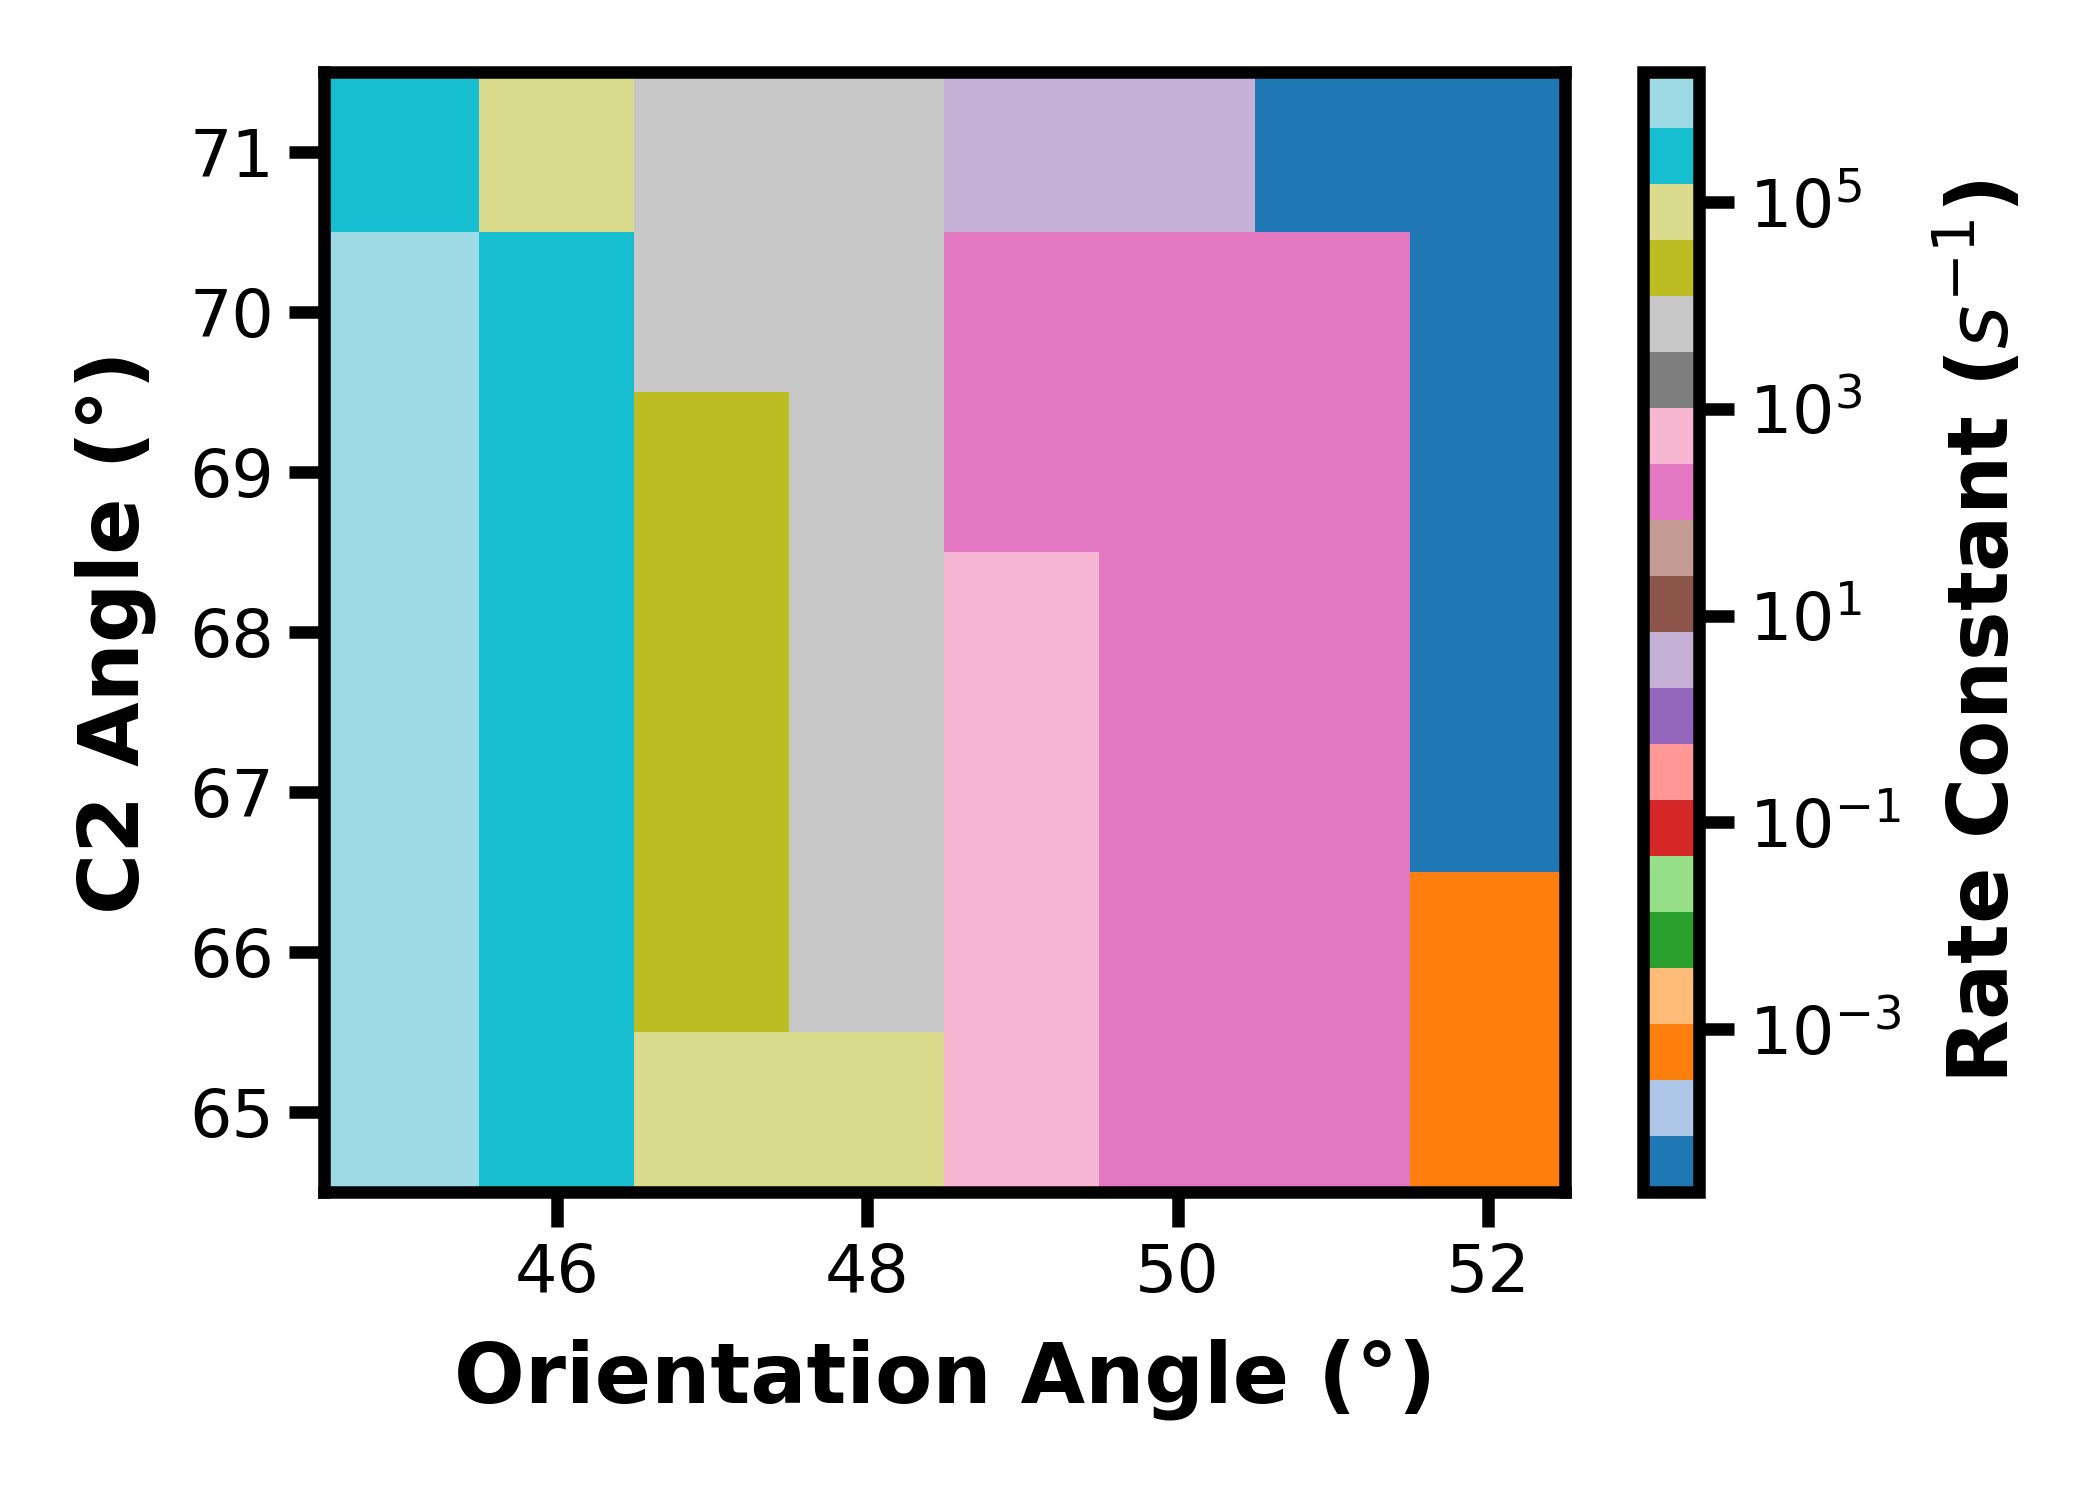
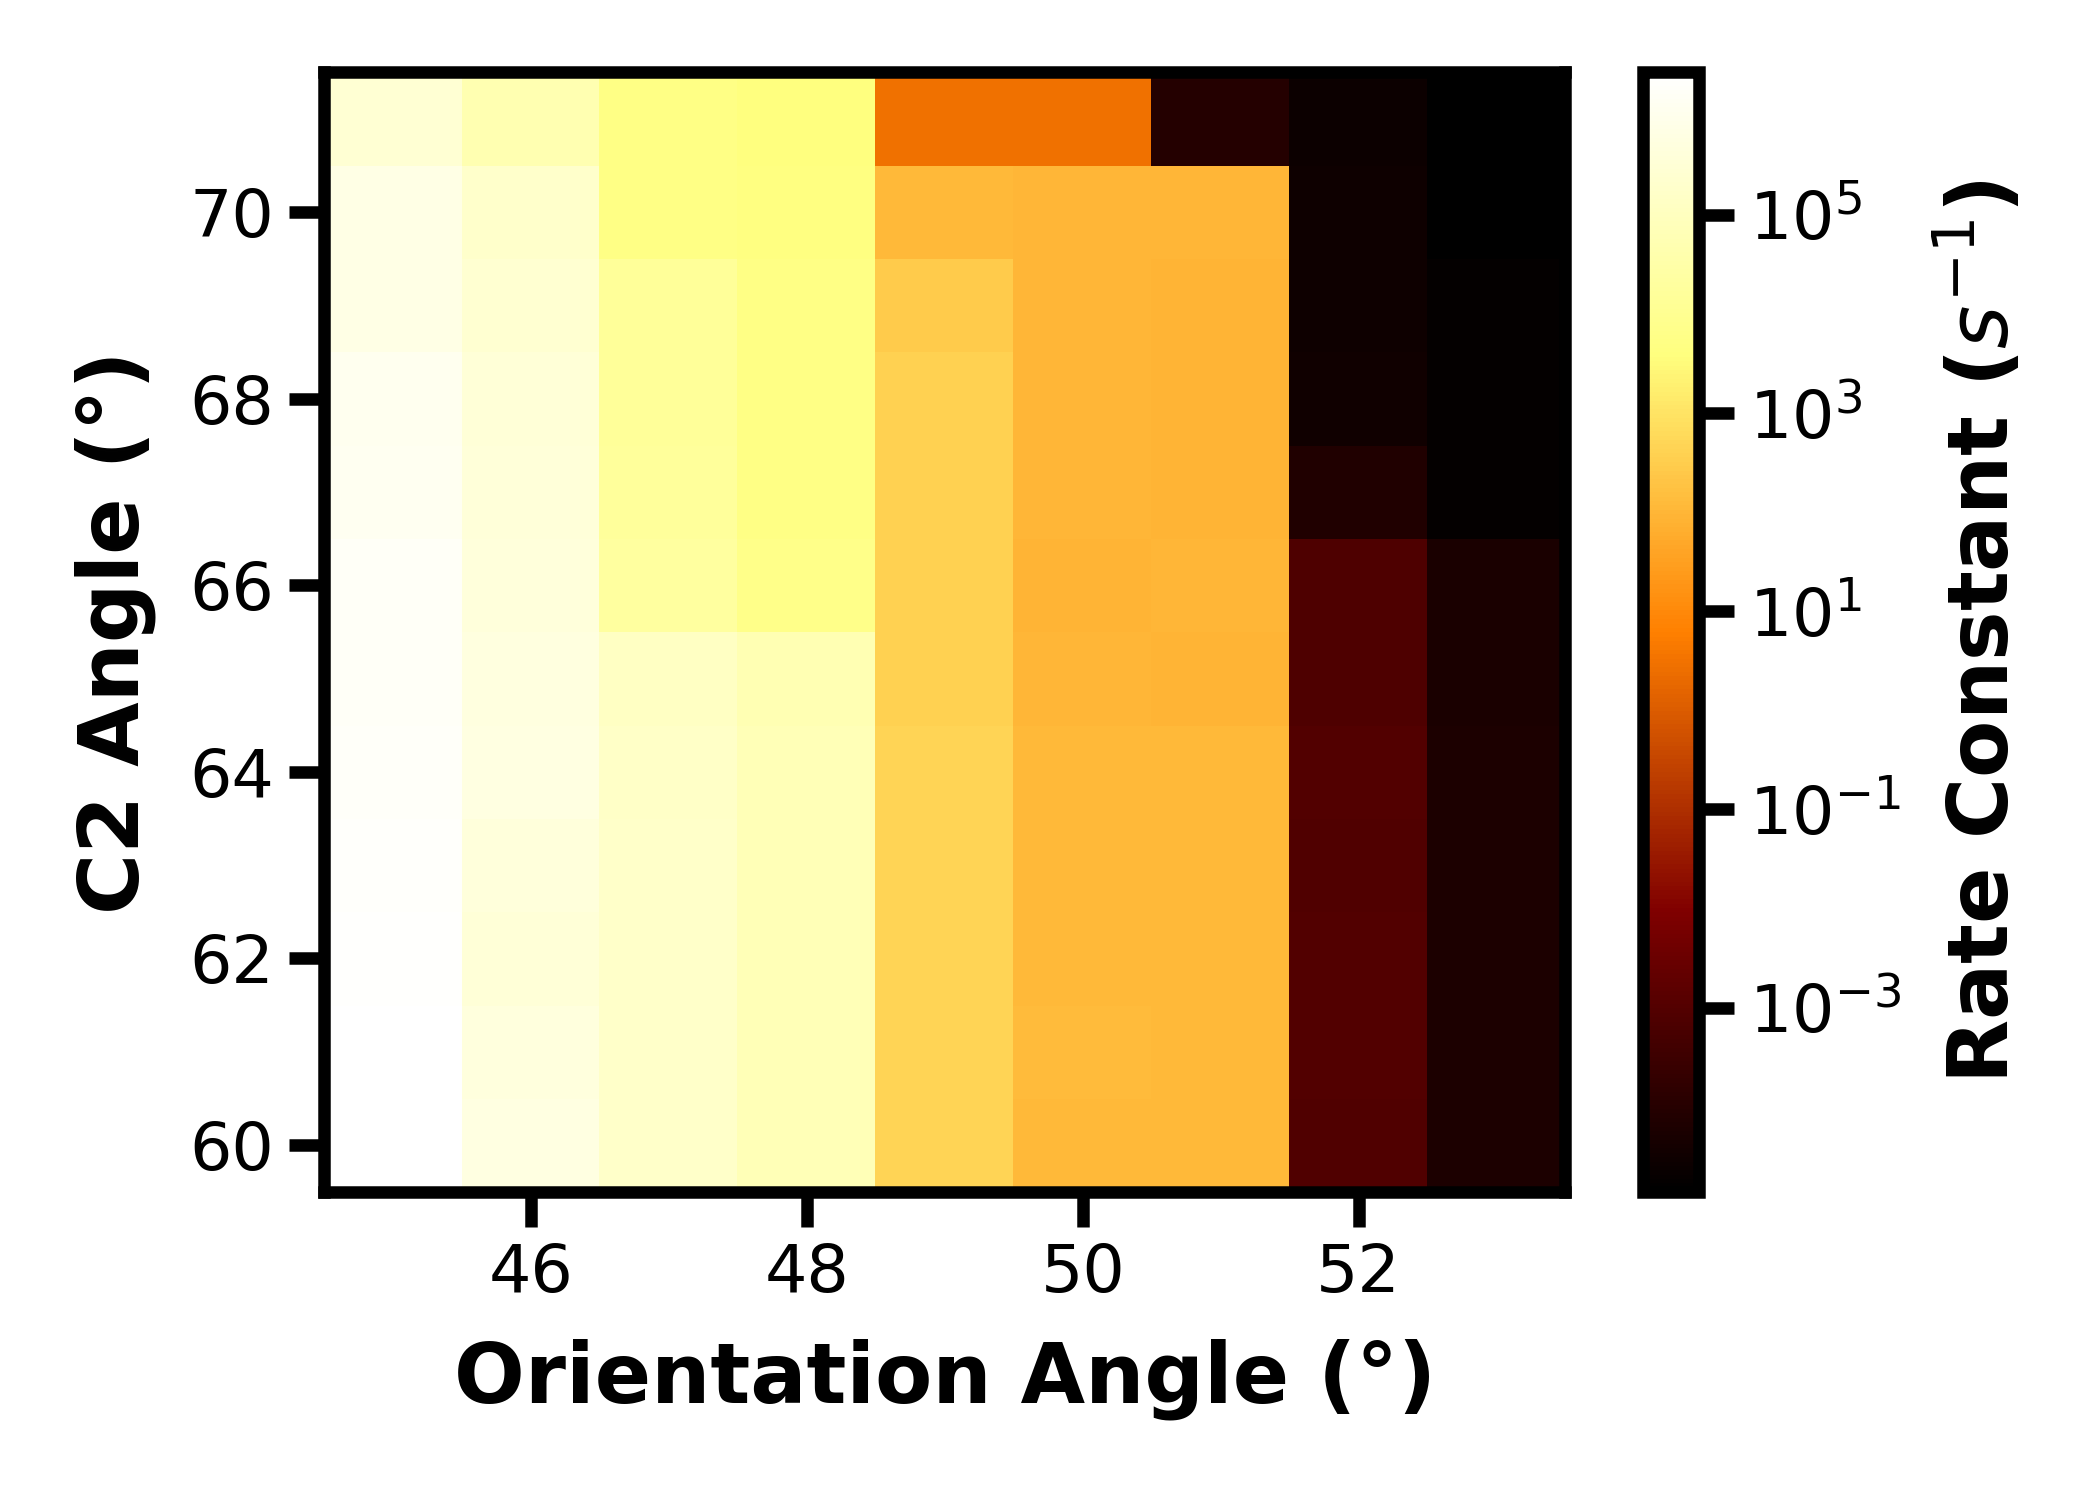
added some plots from the 2d oapdt and c2 grid

diff --git a/plot_direct_h5.py b/plot_direct_h5.py
@@ -36,7 +36,6 @@ The structure of these datasets is as follows:
     of tau.
 """
 
-from turtle import colormode
 import numpy as np
 import matplotlib.pyplot as plt
 import h5py
@@ -99,6 +98,7 @@ class Kinetics:
         """
         Get the raw rate array from one direct.h5 file.
         """
+        print(self.scheme)
         # read in direct.h5 file
         h5 = h5py.File(f"{self.scheme}/direct.h5", "r")
 
@@ -160,7 +160,7 @@ class Kinetics:
             self.ax.set_ylabel("Rate Constant ($s^{-1}$)")
 
         self.ax.set_xlabel(r"WE Iteration ($\tau$=100ps)")
-        plt.yscale("log", subs=[2, 3, 4, 5, 6, 7, 8, 9])
+        self.ax.set_yscale("log", subs=[2, 3, 4, 5, 6, 7, 8, 9])
         self.ax.set_title(title)
 
         return rate_ab
@@ -189,13 +189,21 @@ class Kinetics:
 
         return state_pop_a, state_pop_b
 
-    def plot_exp_vals(self, ax=None):
+    def plot_exp_vals(self, ax=None, f_range=False):
+        """
+        f_range : bool
+            Set to True to use mark 25-67 s^-1 as the k_D1D2 rate.
+        """
         if ax is None:
             ax = self.ax
         if self.units == "rates":
-            # D1-->D2 ~ 20-50, D2-->D1 ~ 100-150
-            ax.axhline(150, color="k", ls="--", label="k$_{D2D1}$")
-            ax.axhline(25, color="red", ls="--", label="k$_{D1D2}$")
+            if f_range:
+                # DTY 19F rates of 25-67 for k_D1D2
+                ax.axhspan(25, 67, alpha=0.25, color="red", label="k$_{D1D2}$")
+            else:
+                # D1-->D2 ~ 20-50, D2-->D1 ~ 100-150
+                ax.axhline(150, color="k", ls="--", label="k$_{D2D1}$")
+                ax.axhline(25, color="red", ls="--", label="k$_{D1D2}$")
         elif self.units == "mfpts":
             # converted to mfpt = 1 / rate
             ax.axhline(1/150, color="k", ls="--", label="MFPT$_{D2D1}$")
@@ -418,34 +426,34 @@ class Kinetics:
 ### save the 50° oa value and plot them later ###
 #################################################
 # c2_rates = []
-# for c2 in range(65, 72):
+# for c2 in range(60, 72):
 #     k = Kinetics(50, 51, scheme=f"2kod_oa_{c2}c2", prefix="2d_", state=1, savefig=False)
 #     rates = k.plot_std_error_rate_reps(reps=3, title=f"2KOD >{c2}° C2 Angle")
 #     cols = [c2, np.average(rates), (np.std(rates)/np.sqrt(3))]
 #     c2_rates.append(cols)
 
-# # c2_rates = np.array(c2_rates)
-# # print(c2_rates)
-# # fig3, ax3 = plt.subplots()
+# c2_rates = np.array(c2_rates)
+# print(c2_rates)
+# fig3, ax3 = plt.subplots()
 
-# # print(c2_rates[:,0] - c2_rates[:,2])
+# print(c2_rates[:,0] - c2_rates[:,2])
 
-# # ax3.plot(c2_rates[:,0], c2_rates[:,1], color="k")
-# # ax3.fill_between(c2_rates[:,0], 
-# #                  c2_rates[:,1] - c2_rates[:,2], 
-# #                  c2_rates[:,1] + c2_rates[:,2], 
-# #                  alpha=0.25, color="k")
+# ax3.plot(c2_rates[:,0], c2_rates[:,1], color="k")
+# ax3.fill_between(c2_rates[:,0], 
+#                  c2_rates[:,1] - c2_rates[:,2], 
+#                  c2_rates[:,1] + c2_rates[:,2], 
+#                  alpha=0.25, color="k")
 
-# # ax3.set_xlabel("Angle State Definition")
-# # ax3.set_ylabel("Rate Constant ($s^{-1}$)")
-# # #plt.yscale("log", subs=[2, 3, 4, 5, 6, 7, 8, 9])
-# # #plt.yscale("symlog", subs=[2, 3, 4, 5, 6, 7, 8, 9])
-# # plt.ylim(-10, 250)
-# # k.plot_exp_vals(ax3)
-# # #ax3.tick_params(colors="grey")
-# # plt.legend()
-# # plt.tight_layout()
-# # fig3.savefig("figures/c2_65-71.png", dpi=300, transparent=True)
+# ax3.set_xlabel("Angle State Definition")
+# ax3.set_ylabel("Rate Constant ($s^{-1}$)")
+# #plt.yscale("log", subs=[2, 3, 4, 5, 6, 7, 8, 9])
+# #plt.yscale("symlog", subs=[2, 3, 4, 5, 6, 7, 8, 9])
+# plt.ylim(-10, 250)
+# k.plot_exp_vals(ax3)
+# #ax3.tick_params(colors="grey")
+# plt.legend()
+# plt.tight_layout()
+# fig3.savefig("figures/c2_60-71.png", dpi=300, transparent=True)
 
 #plt.tight_layout()
 #plt.show()
@@ -455,24 +463,73 @@ class Kinetics:
 #########################
 ### state def heatmap ###
 #########################
-c2_rates = []
-for c2 in range(65, 72):
-    k = Kinetics(45, 53, scheme=f"2kod_oa_{c2}c2", prefix="2d_", state=1, savefig=False)
-    rates = k.plot_std_error_rate_reps(reps=3, title=f"2KOD >{c2}° C2 Angle")
-    #cols = [c2, np.average(rates), (np.std(rates)/np.sqrt(3))]
-    #print(rates[-1:].shape)
-    c2_rates.append(rates)
+# TODO: make a custom cmap with the center around the experimental rate
+# c2_rates = []
+# for c2 in range(60, 72):
+#     k = Kinetics(45, 54, scheme=f"2kod_oa_{c2}c2", prefix="2d_", state=1, savefig=False)
+#     rates = k.plot_std_error_rate_reps(reps=3, title=f"2KOD >{c2}° C2 Angle")
+#     #cols = [c2, np.average(rates), (np.std(rates)/np.sqrt(3))]
+#     #print(rates[-1:].shape)
+#     c2_rates.append(rates)
 
-x = [i for i in range(65, 72)]
-y = [i for i in range(45, 53)]
-z = np.average(np.array(c2_rates), axis=2)
+# x = [i for i in range(60, 72)]
+# y = [i for i in range(45, 54)]
+# z = np.average(np.array(c2_rates), axis=2)
 
-import matplotlib.colors
+# import matplotlib.colors
 
-fig4, ax4 = plt.subplots()
-mesh = ax4.pcolormesh(y, x, z, shading="auto", norm=matplotlib.colors.LogNorm(), cmap="tab20")
-cbar = fig4.colorbar(mesh)
-cbar.set_label("Rate Constant ($s^{-1}$)")
-ax4.set(xlabel="Orientation Angle (°)", ylabel="C2 Angle (°)")
-fig4.tight_layout()
-fig4.savefig("figures/angle_heatmap.png", dpi=300)
+# fig4, ax4 = plt.subplots()
+# mesh = ax4.pcolormesh(y, x, z, shading="auto", norm=matplotlib.colors.LogNorm(), cmap="afmhot")
+# cbar = fig4.colorbar(mesh)
+# cbar.set_label("Rate Constant ($s^{-1}$)")
+# ax4.set(xlabel="Orientation Angle (°)", ylabel="C2 Angle (°)")
+# fig4.tight_layout()
+# fig4.savefig("figures/angle_heatmap.png", dpi=300)
+
+
+######################
+### 1d oapdt plots ###
+######################
+# fig, ax = plt.subplots()
+# systems = ["2kod_v00", "lo_pH_v00", "150end_v00"]
+# names = ["2kod WT", "Low pH", "150-end"]
+# for i in range(3):
+#     k = Kinetics(scheme=f"gt2500oapdt_gt70c2/{systems[i]}", state=1, label=names[i], ax=ax)
+#     k.plot_rate()
+#     # k = Kinetics(scheme=f"gt2500oapdt_gt65c2/{systems[i]}", state=1, label=names[i], ax=ax)
+#     # k.plot_rate()
+# k.plot_exp_vals(f_range=True)
+# plt.legend()
+# plt.tight_layout()
+# plt.show()
+# # fig.savefig("figures/wt_lo_150end_2500oapdt_70c2.png", dpi=300, transparent=True)
+
+############################
+### oapdt c2 plots/grids ###
+############################
+fig, ax = plt.subplots(ncols=2, sharey=True, figsize=(10,5))
+#systems = ["2kod_v00", "lo_pH_v00", "150end_v00"]
+systems = ["2kod_v00"]
+#systems = ["lo_pH_v00"]
+final_rates = []
+for c2 in range(66,73):
+#for c2 in range(70,71):
+    #for oapdt in range(2100, 2700, 100):
+    for oapdt in range(2500, 2600, 100):
+        k = Kinetics(scheme=f"oapdt_c2_2dgrid/{systems[0]}/{oapdt}oapdt_{c2}c2",
+                    state=1, label=f"{str(c2)}_{oapdt}", ax=ax[0])
+        rate = k.plot_rate()
+        final_rates.append(rate[-1])
+ax[1].plot([i for i in range(66,73)], final_rates)
+#ax[1].plot([i for i in range(2100,2700,100)], final_rates)
+k.plot_exp_vals(f_range=True, ax=ax[0])
+#plt.legend()
+ax[0].legend()
+ax[1].set_yscale("log", subs=[2, 3, 4, 5, 6, 7, 8, 9])
+plt.tight_layout()
+plt.show()
+# fig.savefig("figures/wt_lo_150end_2500oapdt_70c2.png", dpi=300, transparent=True)
+fig.savefig("figures/testing_2500oapdt.png", dpi=300, transparent=True)
+#fig.savefig("figures/testing_70c2.png", dpi=300, transparent=True)
+
+# TODO: try/except block for OS error for failed kinetics 
